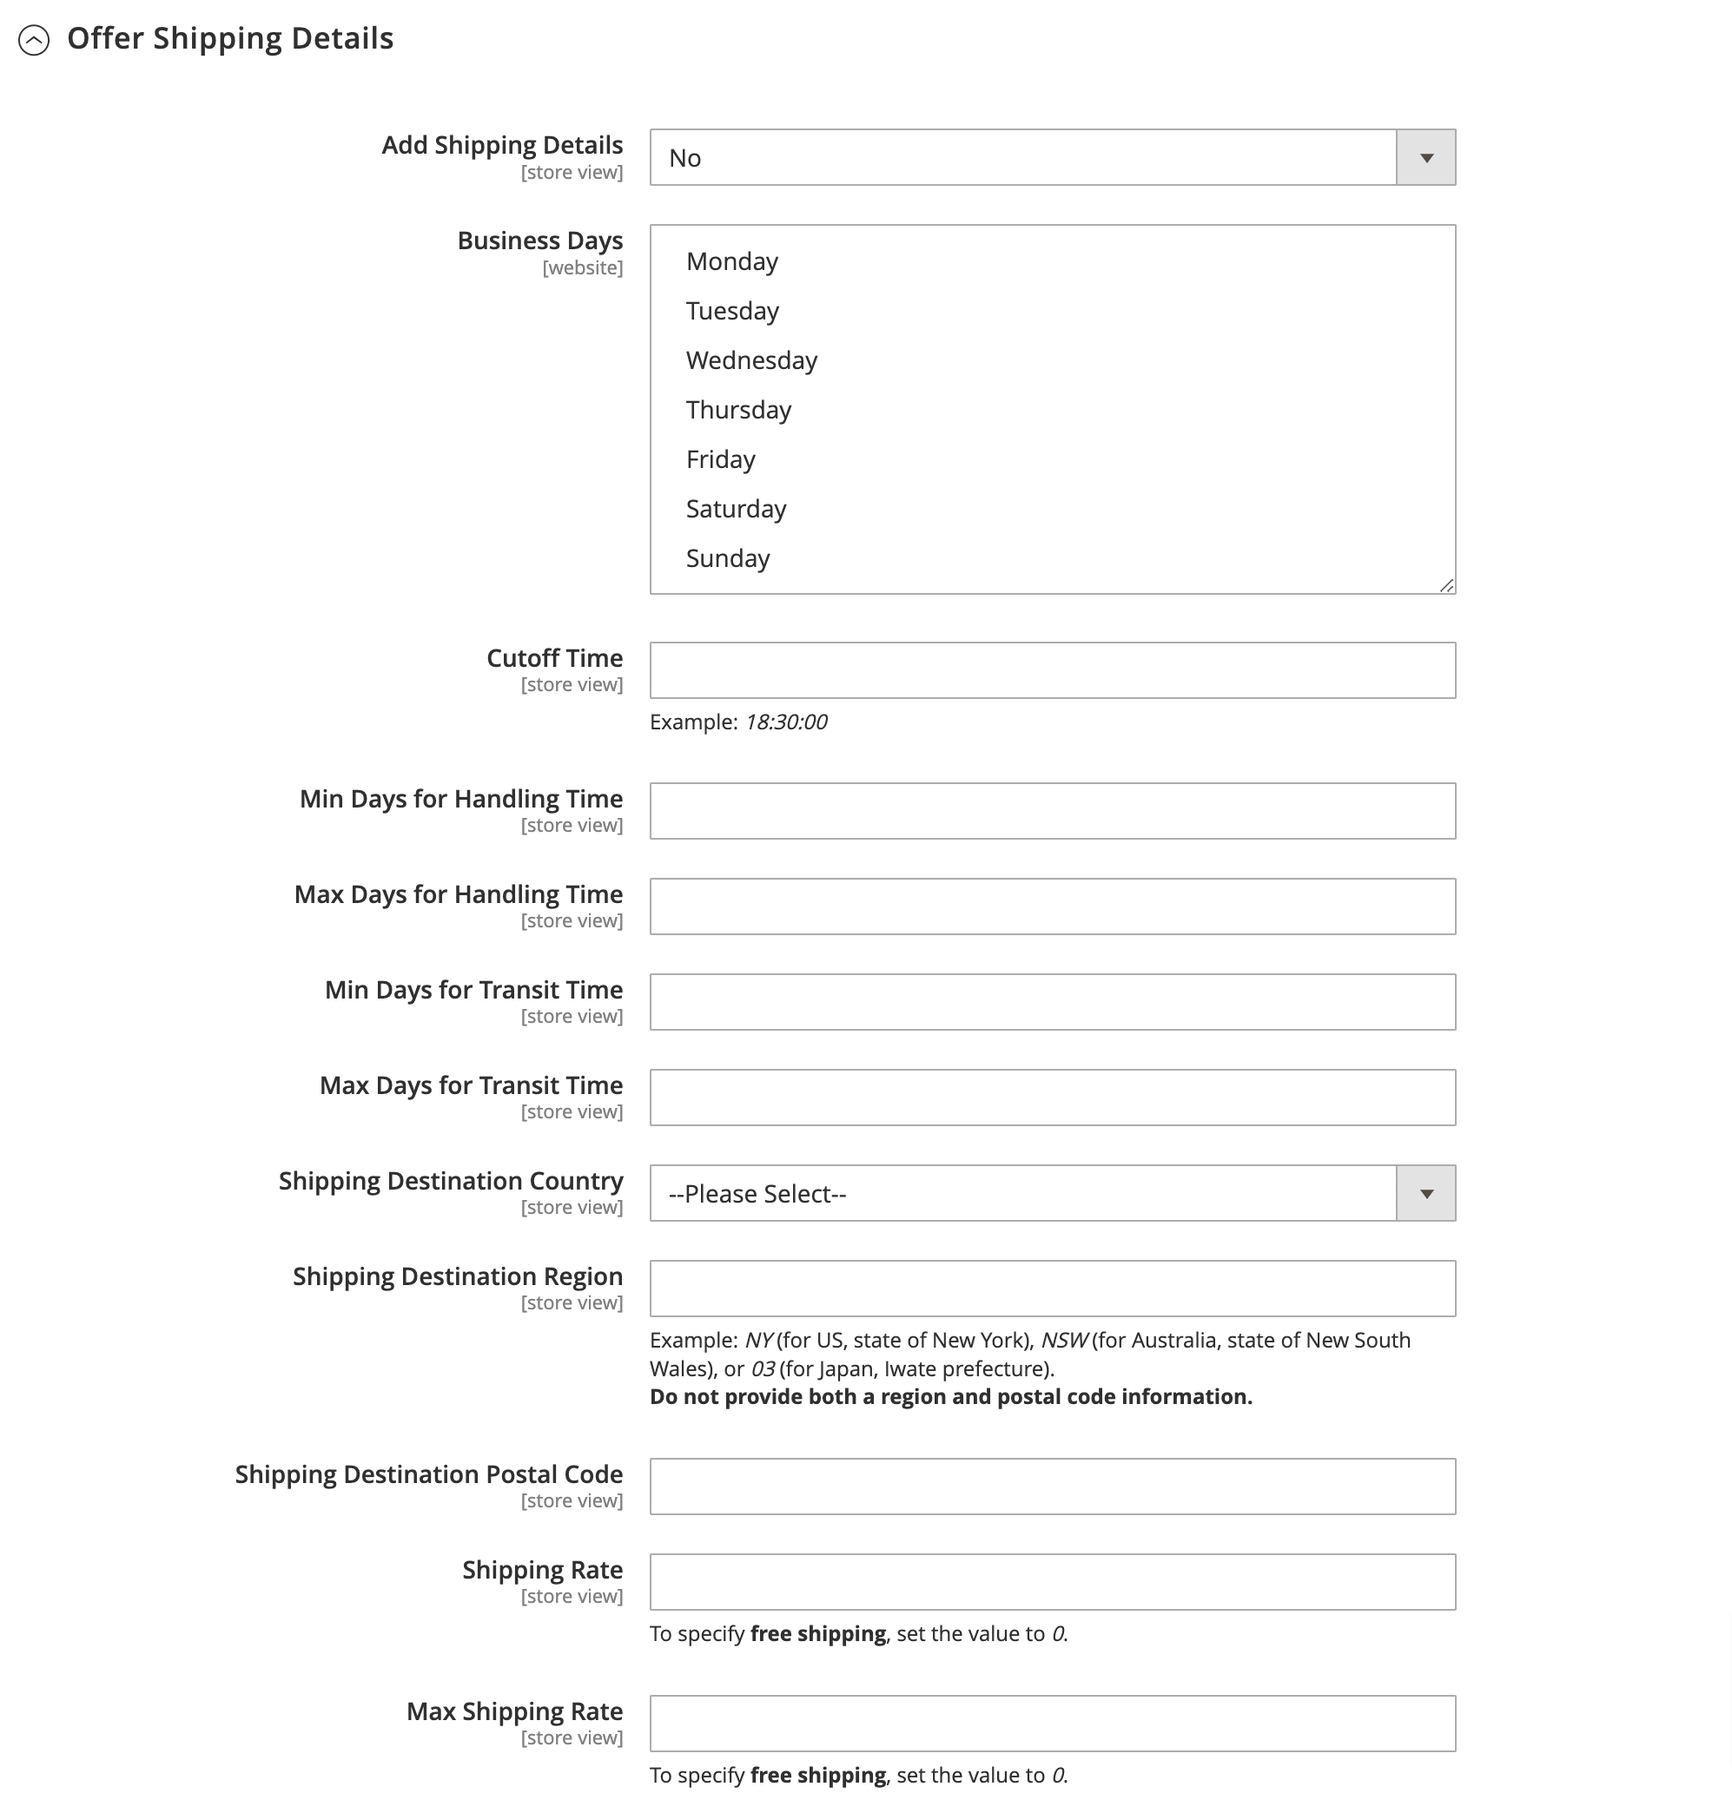
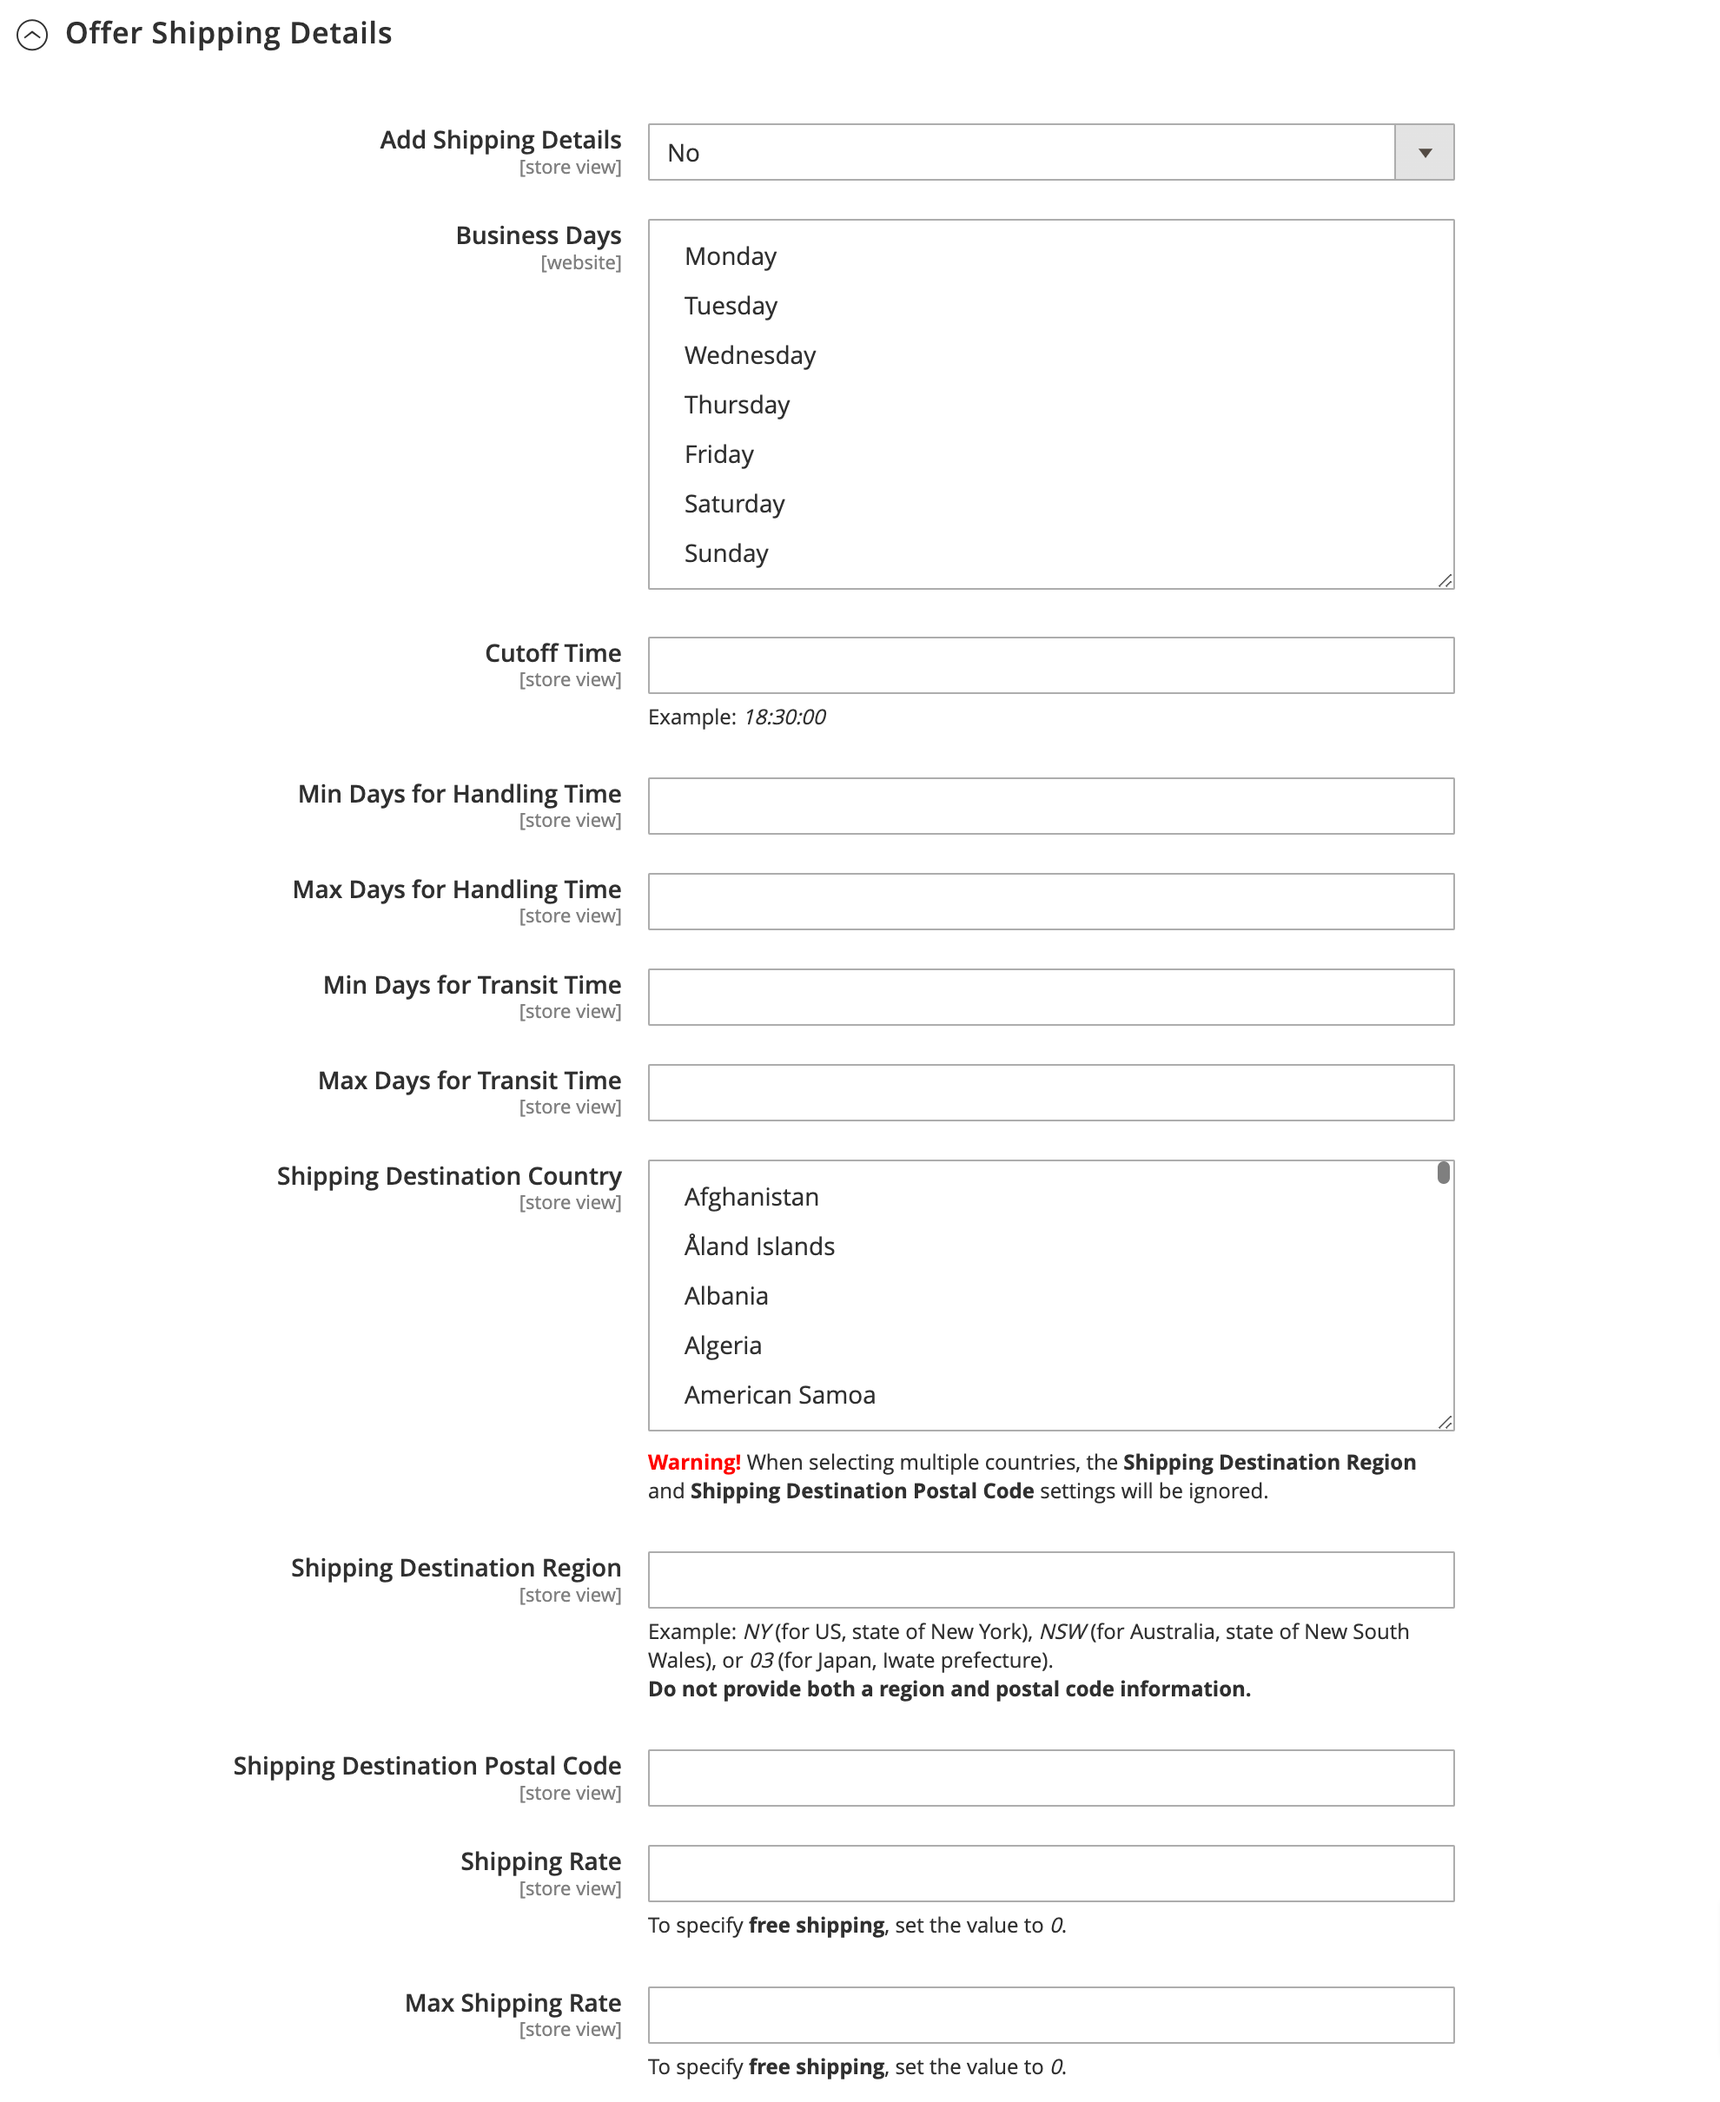
changed description of Shipping Destination Country and description of Applicable Country (Rich Snippets config)

diff --git a/docs/extensions/rich-snippets.md b/docs/extensions/rich-snippets.md
@@ -97,10 +97,10 @@ Set **Enable** to `Yes` to see more settings.
 | Max Days for Handling Time       | The maximum number of days between the receipt of the order and the goods leaving the warehouse.                                                                                                                       |
 | Min Days for Transit Time        | The minimum number of days between when the order has been sent for delivery and when the goods reach the final customer.                                                                                              |
 | Max Days for Transit Time        | The maximum number of days between when the order has been sent for delivery and when the goods reach the final customer.                                                                                              |
-| Shipping Destination Country     | The country.                                                                                                                                                                                                           |
-| Shipping Destination Region	    | Identifies the region for the customer delivery area. <br> **Do not provide both a region and postal code information**.                                                                                               |
+| Shipping Destination Country     | The country (multiple countries). <br> When selecting multiple countries, the **Shipping Destination Region** and **Shipping Destination Postal Code** settings will be ignored.                                       |
+| Shipping Destination Region	     | Identifies the region for the customer delivery area. <br> **Do not provide both a region and postal code information**.                                                                                               |
 | Shipping Destination Postal Code | The postal code.                                                                                                                                                                                                       |
-| Shipping Rate	                | The cost of shipping to the specified destination. <br> To specify **free shipping**, set the value to `0`.                                                                                                                                                                     |
+| Shipping Rate	                   | The cost of shipping to the specified destination. <br> To specify **free shipping**, set the value to `0`.                                                                                                            |
 | Max Shipping Rate                | The maximum cost of shipping to the specified destination. <br> To specify **free shipping**, set the value to `0`.                                                                                                    |
 
 #### Merchant Return Policy
@@ -110,7 +110,7 @@ Set **Enable** to `Yes` to see more settings.
 | FIELD                        | DESCRIPTION                                                                                                                                                                                                                                  |
 |------------------------------|----------------------------------------------------------------------------------------------------------------------------------------------------------------------------------------------------------------------------------------------|
 | Add Merchant Return Policy   | Determines whether to include the **`hasMerchantReturnPolicy`** property in the markup. Options: Yes / No                                                                                                                                    |
-| Applicable Country           | The country that the return policy applies to.                                                                                                                                                                                               |
+| Applicable Country           | The country (multiple countries) that the return policy applies to.                                                                                                                                                                          |
 | Return Policy Category       | The type of return policy. Options: MerchantReturnFiniteReturnWindow / MerchantReturnNotPermitted / MerchantReturnUnlimitedWindow. <br> If set to `MerchantReturnFiniteReturnWindow`, then the **Merchant Return Days** setting is required. |
 | Merchant Return Days         | Specifies the number of days (from the delivery date) that a product can be returned.                                                                                                                                                        |
 | Return Fees Type             | Specifies the type of return fees. Options: Do not add / FreeReturn / ReturnFeesCustomerResponsibility / ReturnShippingFees. <br> If set to `Do not add`, the **`returnFees`** property will not be included in the markup.                  |
